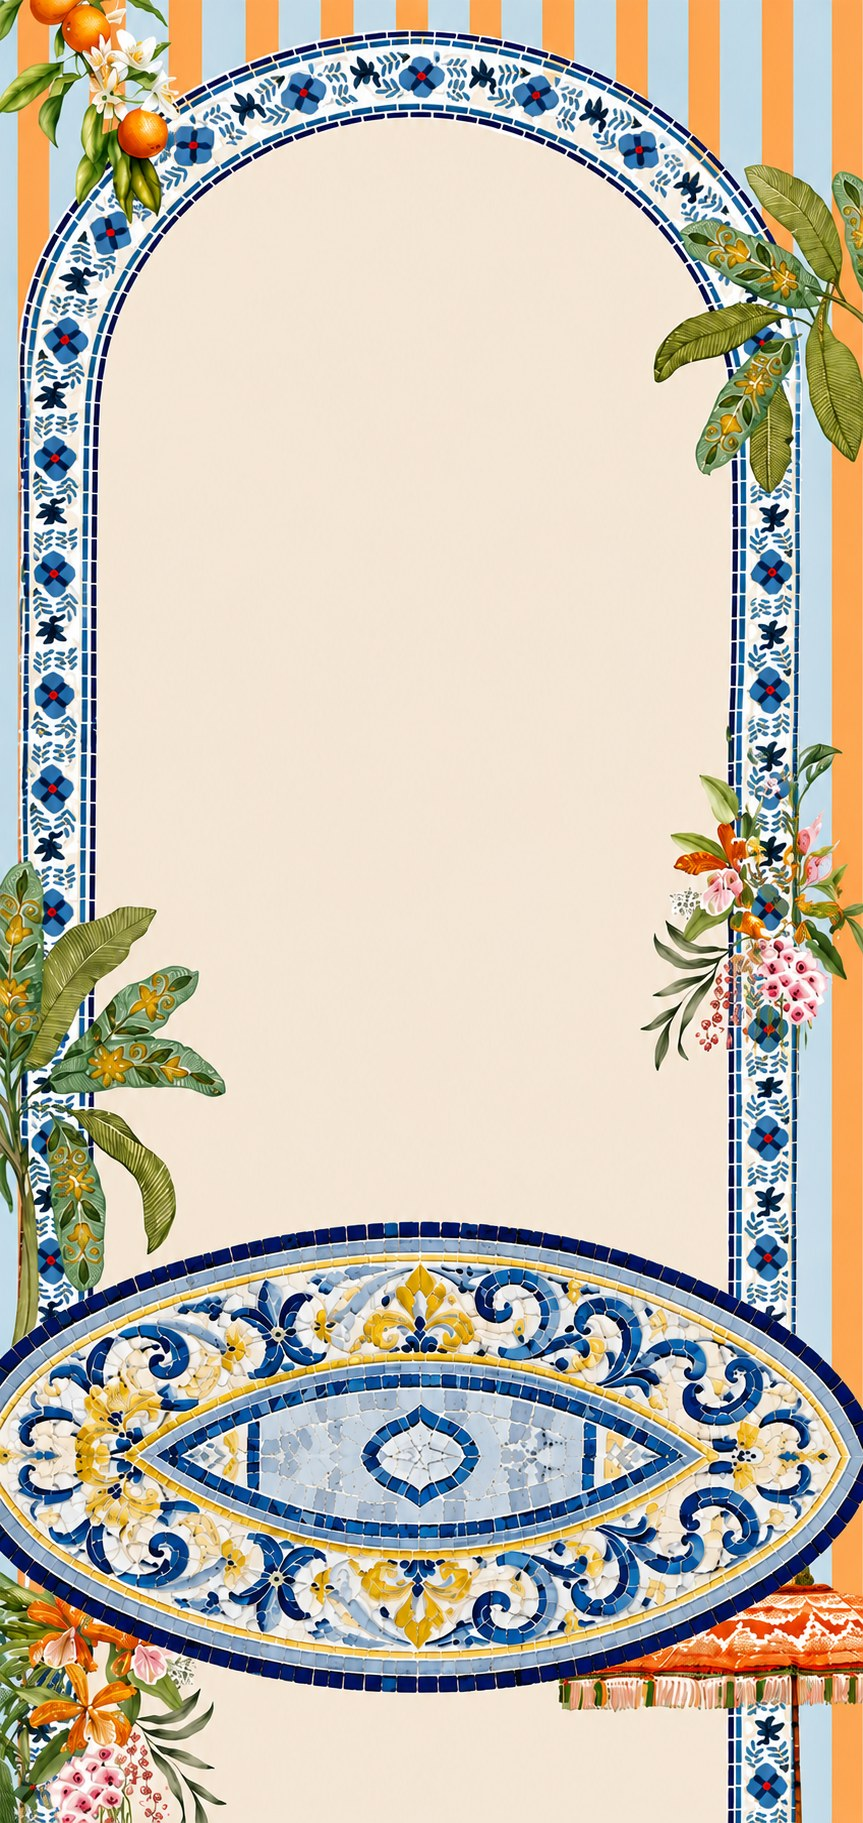
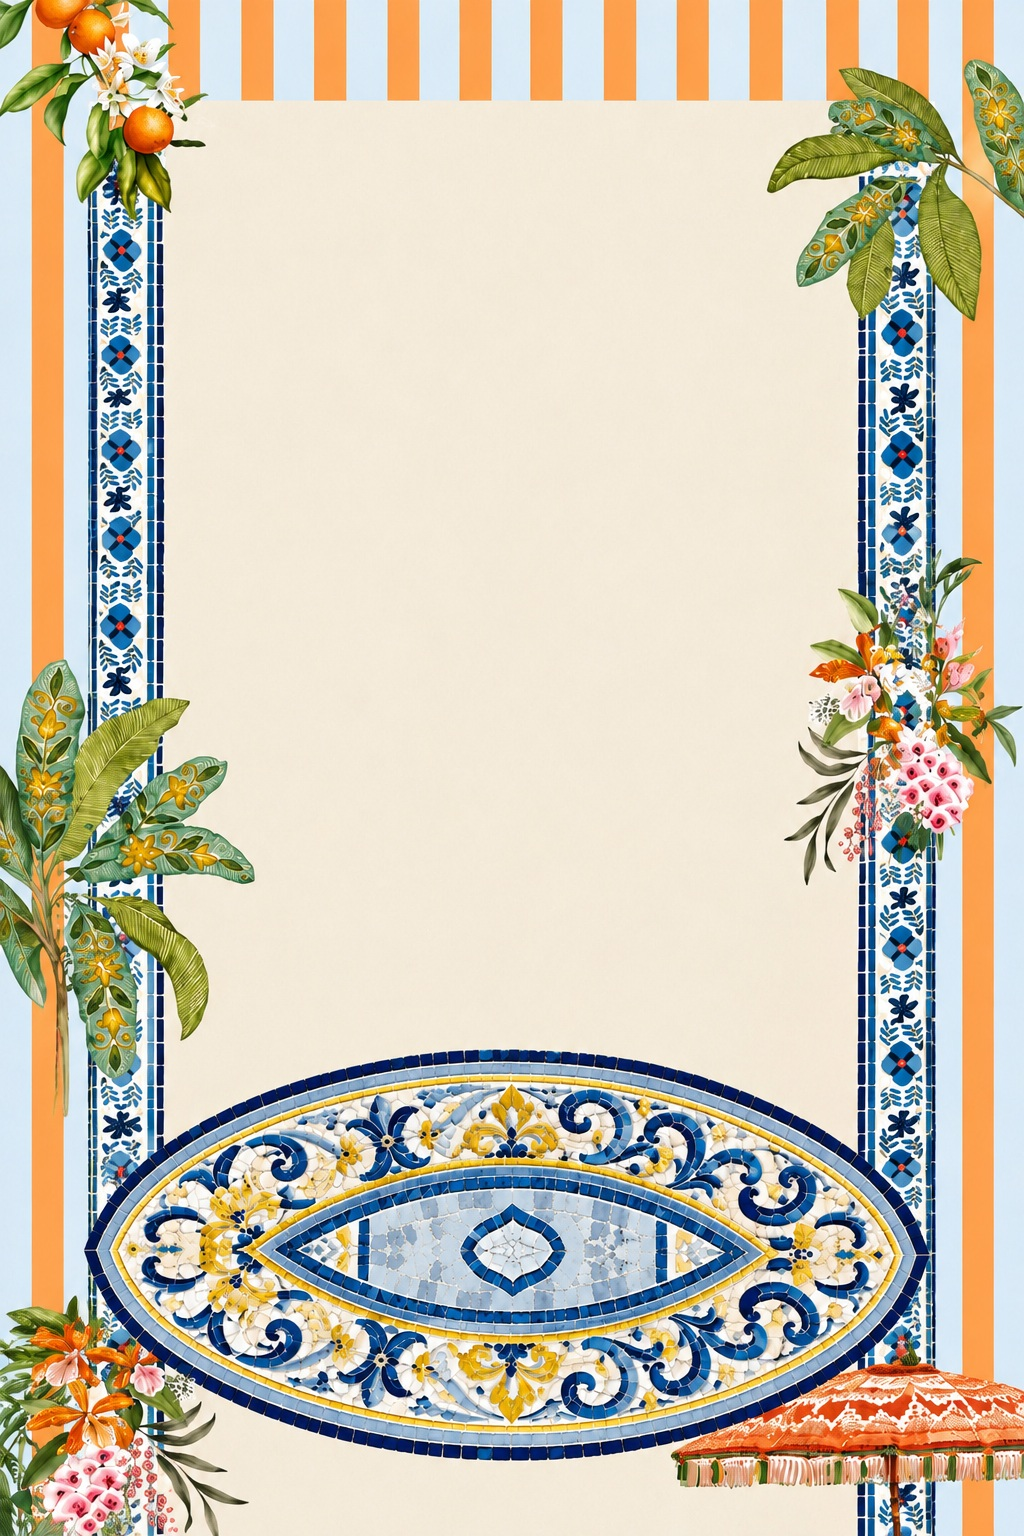
Add files via upload

diff --git a/styles.css b/styles.css
@@ -12,7 +12,7 @@ button,input{font:inherit}
 button{cursor:pointer}
 .page{position:relative;min-height:100vh;overflow:hidden;background:var(--cream)}
 .art-frame{position:fixed;inset:0;background-image:url('wedding-art.jpg');background-position:center top;background-size:cover;background-repeat:no-repeat;z-index:0}
-.art-frame:after{content:"";position:absolute;inset:0;background:rgba(246,237,219,.10);pointer-events:none}
+.art-frame:after{content:"";position:absolute;inset:0;background:rgba(246,237,219,0);pointer-events:none}
 .content{position:relative;z-index:1;width:min(760px,92vw);margin:0 auto;padding:clamp(48px,8vh,92px) 0 100px;min-height:100vh;display:flex;flex-direction:column;align-items:center}
 .intro{width:100%;text-align:center}
 h1{font-family:"Cormorant Garamond",serif;font-weight:600;font-size:clamp(54px,8vw,82px);line-height:.9;margin:0;color:var(--navy);letter-spacing:-.03em;text-shadow:0 1px 0 rgba(255,255,255,.35)}
